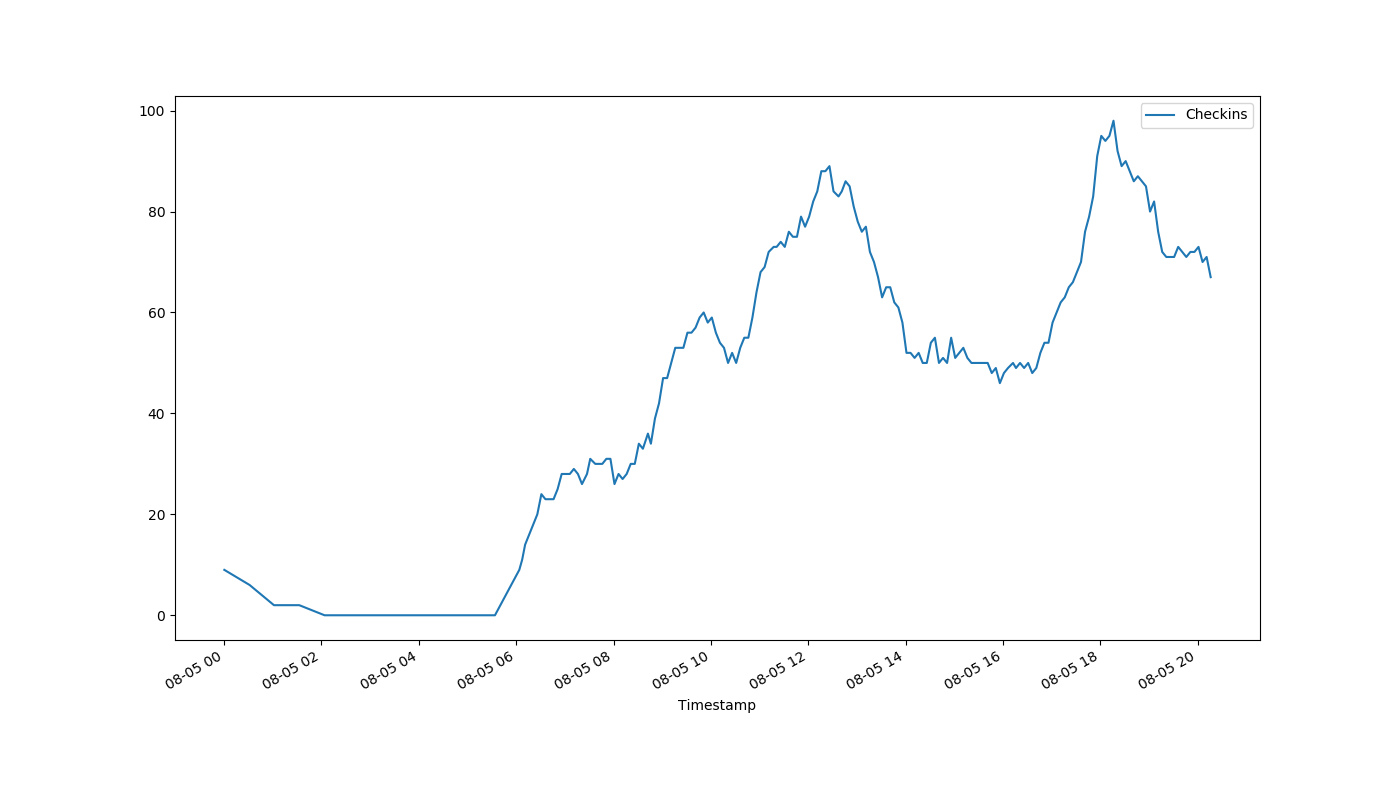
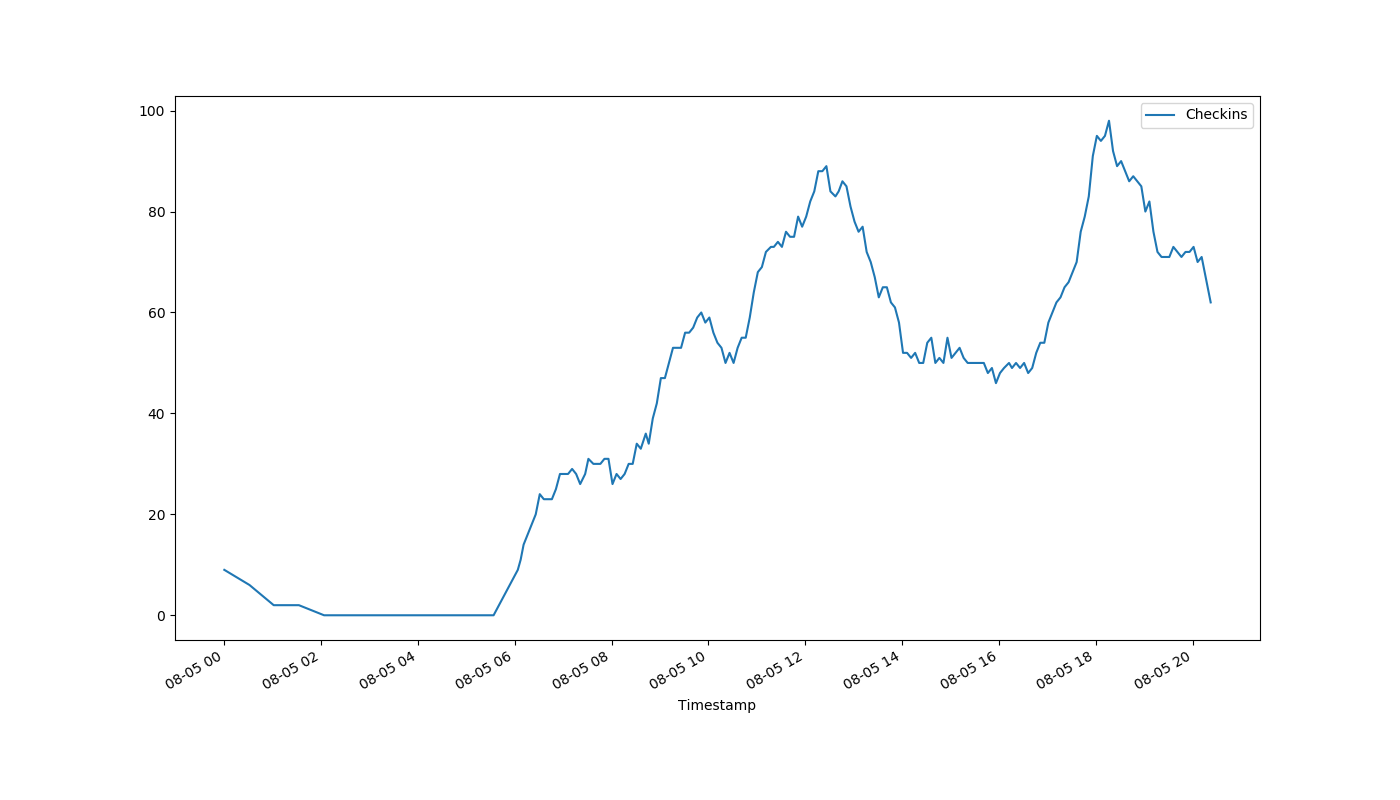
auto-Aug-05-20:24:09

diff --git a/index.html b/index.html
@@ -1,1 +1,1 @@
-<!DOCTYPE html><html><head><meta http-equiv="refresh" content="30"><link rel='stylesheet' href='holmcurrent.css'></head><body><p id='count'>-1</p><div id='graph-wrap'><img id='graph' src='holmgraph-Aug-05.png'></div><p id='updated'>Last updated 20:22:07 / 20:21:03</p></body></html>
+<!DOCTYPE html><html><head><meta http-equiv="refresh" content="30"><link rel='stylesheet' href='holmcurrent.css'></head><body><p id='count'>62</p><div id='graph-wrap'><img id='graph' src='holmgraph-Aug-05.png'></div><p id='updated'>Last updated 20:23:07 / 20:22:14</p></body></html>
